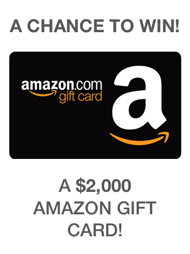
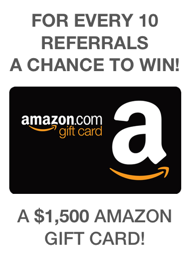
final touches 2
prize images

diff --git a/app/models/user.rb b/app/models/user.rb
@@ -29,7 +29,7 @@ class User < ActiveRecord::Base
         },
         {
             'count' => 10,
-            "html" => "Win a $2,000<br>Gift Card",
+            "html" => "Win a $1,500<br>Gift Card",
             "class" => "five",
             "image" => "refer/winston@2x.png"
         },
